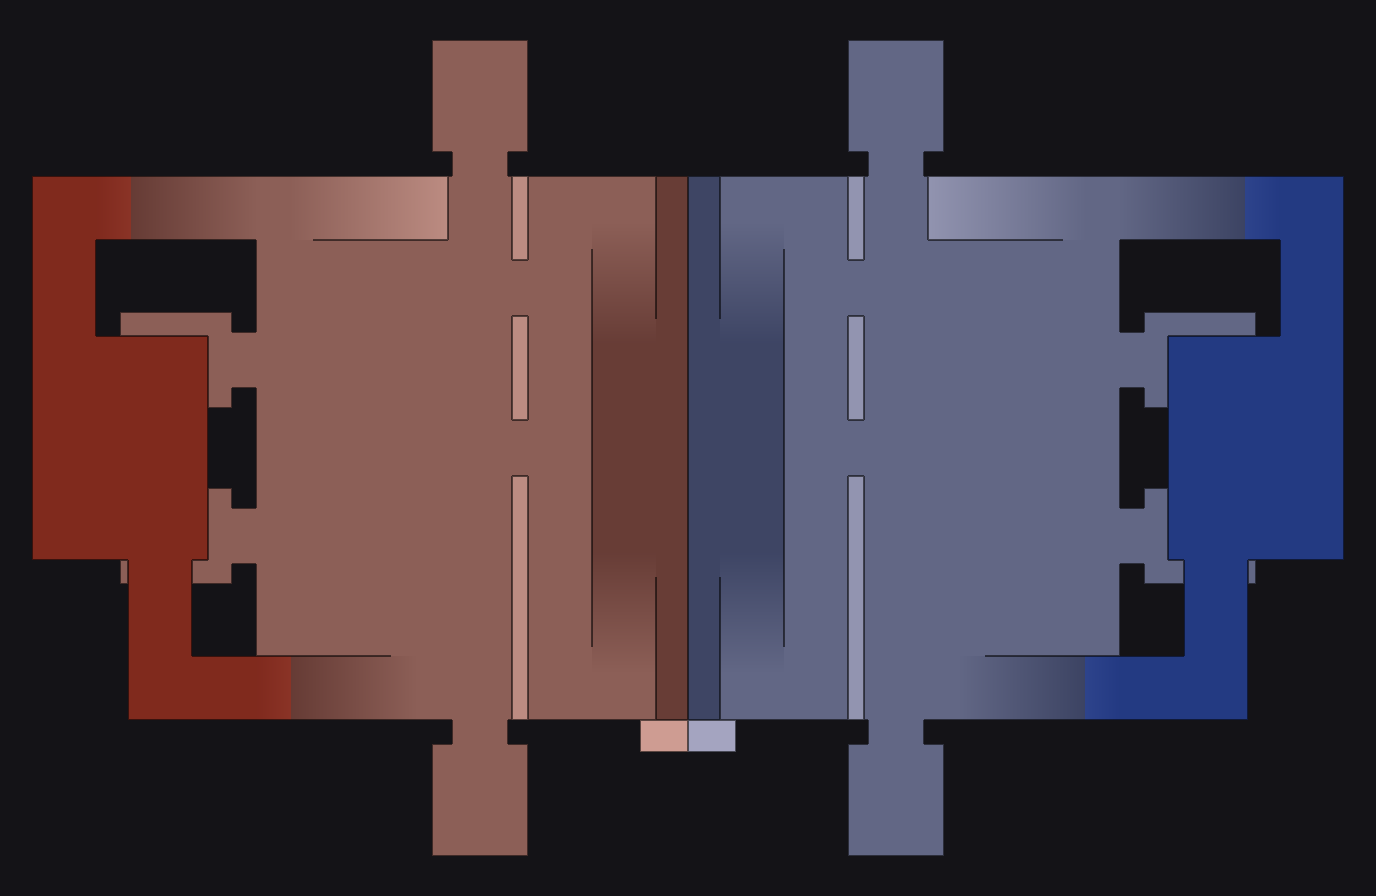
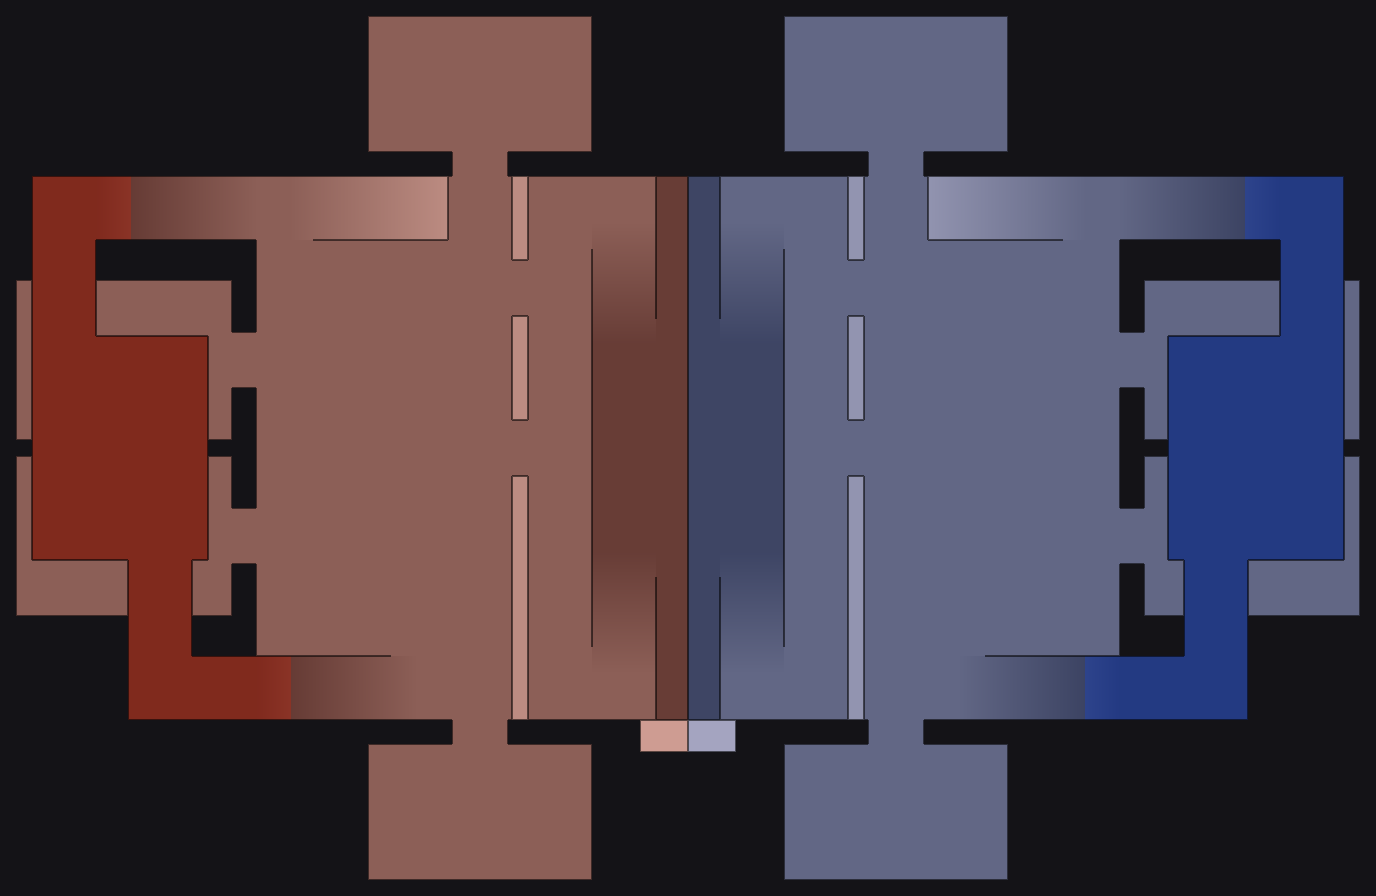
Arena page: the forts' plan redrawn for the bigger pens
The Capture the Flag map's pens are three times the size (thirty and twenty-eight slots where nine stood), so the live map's picture of the forts changes with them. Asset version 20260921d.

diff --git a/arena/arena.js b/arena/arena.js
@@ -455,7 +455,7 @@ import { collection, doc, addDoc, getDoc, onSnapshot, serverTimestamp } from "ht
     host.hidden = false;
     if (!host.firstChild) {
       host.innerHTML = '<div class="ctf-map-head"><h3>The forts, live</h3><span class="legend"><i class="mdot red"></i>Red <i class="mdot blue"></i>Blue <i class="mdot red low"></i>in the basement <i class="mdot blue carry"></i>has the flag</span></div>' +
-        '<div class="ctf-map-box"><img src="arena/ctf2fort.png?v=20260921a" alt="A plan of the two forts: Red on the left, Blue on the right, the bridge and the moat between them"><div class="layer"></div></div>';
+        '<div class="ctf-map-box"><img src="arena/ctf2fort.png?v=20260921d" alt="A plan of the two forts: Red on the left, Blue on the right, the bridge and the moat between them"><div class="layer"></div></div>';
     }
     const layer = host.querySelector(".layer"), seen = {};
     const mons = (st.monsters || []).filter((m) => m.xy);

diff --git a/arena.html b/arena.html
@@ -11,7 +11,7 @@
     <meta property="og:type" content="website">
     <title>DFWGV Arena</title>
     <link rel="stylesheet" href="community.css?v=20260622-cleanup">
-    <link rel="stylesheet" href="arena/arena.css?v=20260921c">
+    <link rel="stylesheet" href="arena/arena.css?v=20260921d">
     <link rel="icon" href="favicon.ico">
 </head>
 <body data-page="arena">
@@ -46,6 +46,6 @@
     <footer class="footer">
         <p>&copy; 2026 DFW Gaming Village. All Rights Reserved.</p>
     </footer>
-    <script type="module" src="arena/arena.js?v=20260921c"></script>
+    <script type="module" src="arena/arena.js?v=20260921d"></script>
 </body>
 </html>
